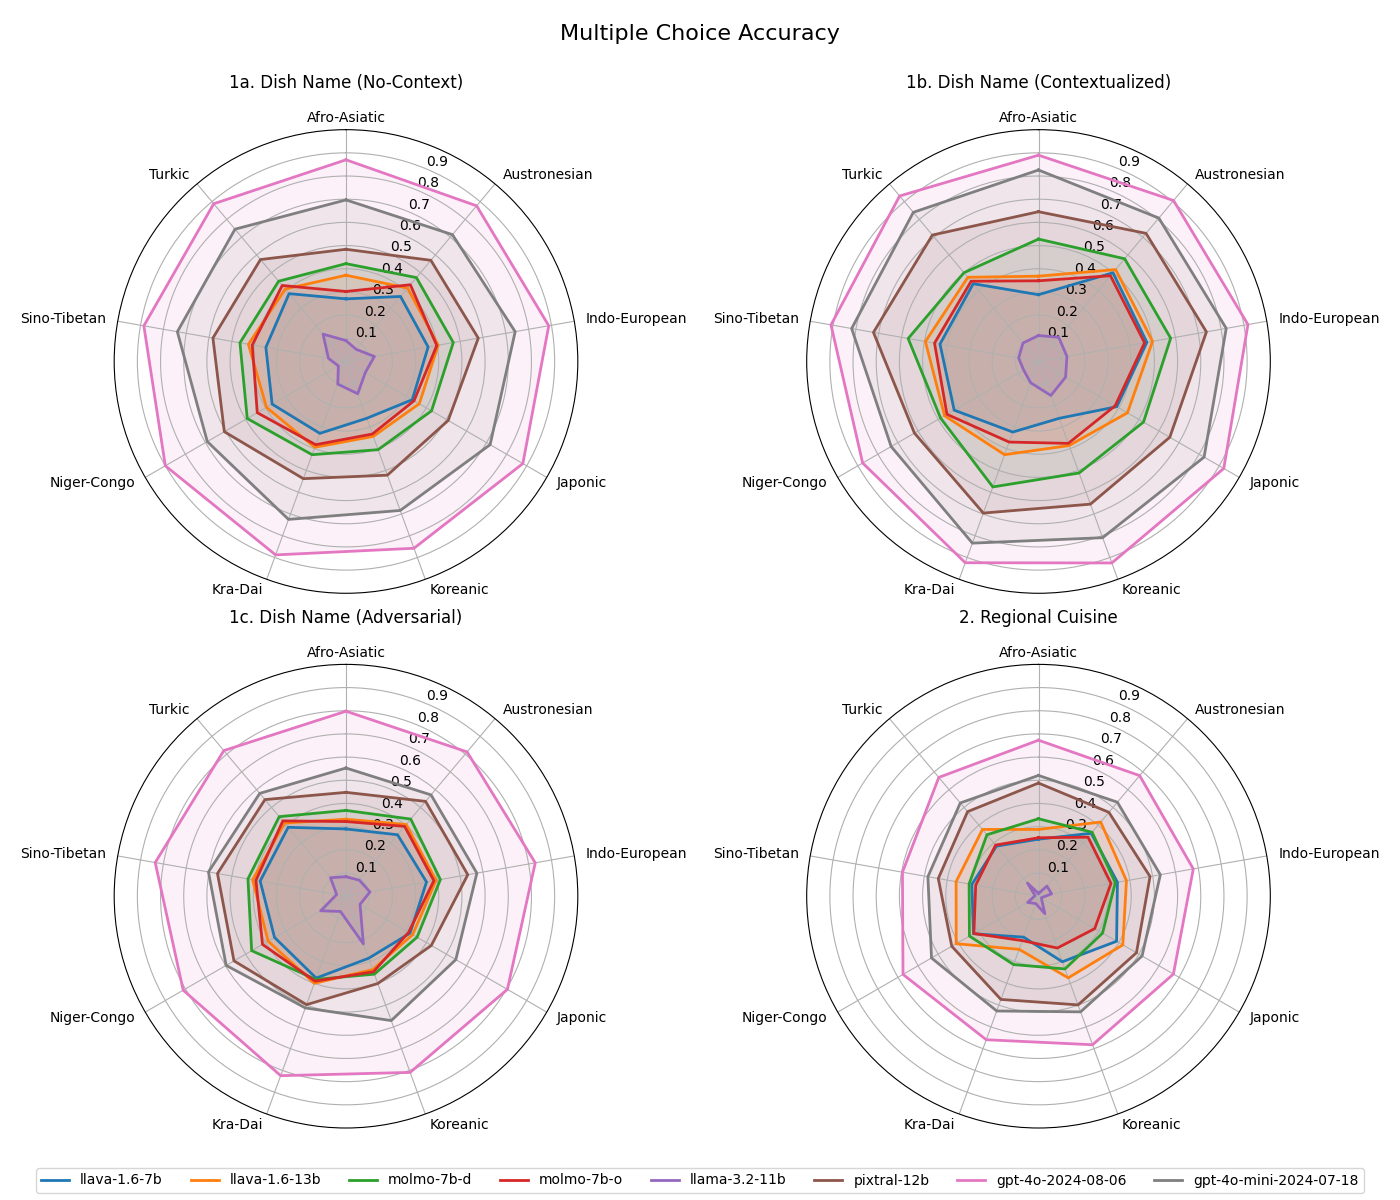
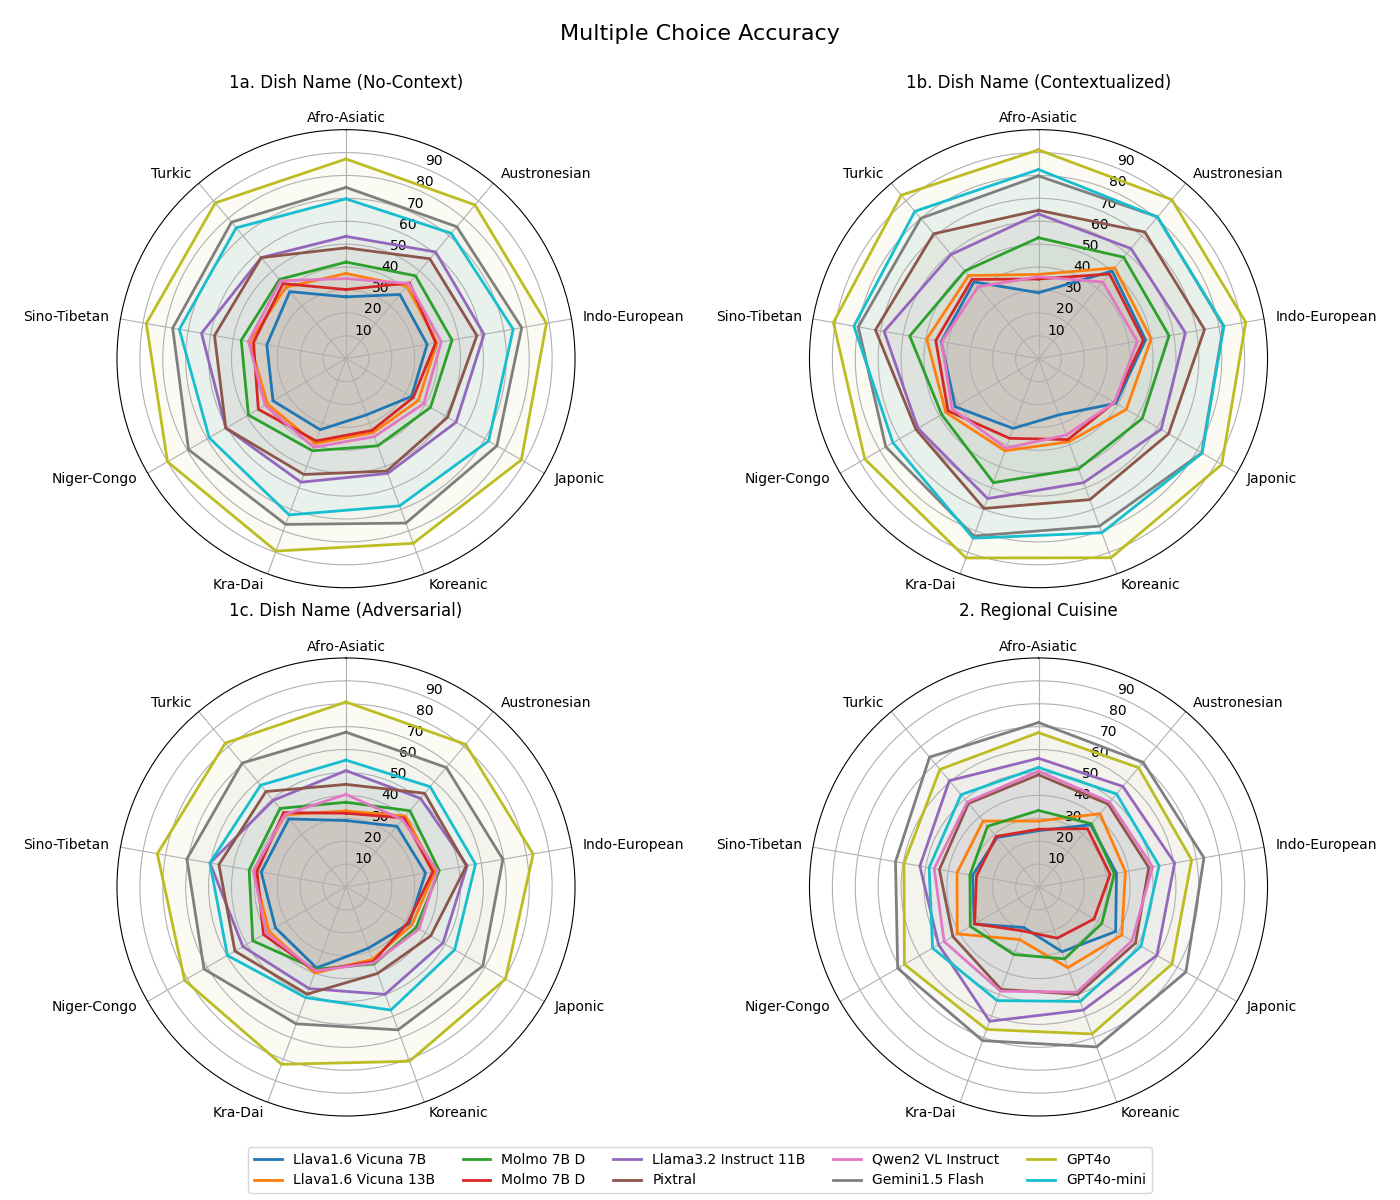
feat: radar viz all case

Changed region(s): [[0.0, 0.1233, 0.9829, 0.9867], [0.86, 0.9558, 0.9521, 0.9867], [0.0307, 0.9558, 0.1229, 0.9867]]

diff --git a/evaluation/score/plot/visualization.py b/evaluation/score/plot/visualization.py
@@ -10,6 +10,11 @@ with open('./plot_mapper.yml', 'r') as file:
 LANG_FAMILY_DICT = plot_mapper['lang_family_dict']
 LANG_RESOURCE_DICT = plot_mapper['lang_resource_dict']
 CATEGORIES = plot_mapper['categories']
+MODEL_NAME_DICT = plot_mapper['model_name_dict']
+
+ACCURACY_MC_PATH = "../json/{model}_accuracy_mc.json"
+ACCURACY_OE_PATH = "../json/{model}_accuracy_oe.json"
+BERTSCORE_OE_PATH = "../json/{model}_bertscore_oe.json"
 
 def load_json(file_path):
     with open(file_path, 'r') as file:
@@ -18,23 +23,30 @@ def load_json(file_path):
 def generate_accuracy_dict(task, vis_type):
     with open('../score.yml', 'r') as file:
         models = yaml.safe_load(file)
+    models = models['models']
     
     model_dict = {}
     if vis_type == 'lang':
         if task == 'mc':
             model_dict = {
-                model: load_json(f'../json/accuracy_mc_{model}.json') for _, model in models.items()
+                model: load_json(ACCURACY_MC_PATH.format(model=model)) for model in models
+            }
+        elif task == 'oe':
+            model_dict = {
+                model: load_json(ACCURACY_OE_PATH.format(model=model)) for model in models
             }
         else:
             model_dict = {
-                model: load_json(f'../json/accuracy_oe_{model}.json') for _, model in models.items()
+                model: load_json(BERTSCORE_OE_PATH.format(model=model)) for model in models
             }
     else:
-        for _, model in models.items():
+        for model in models:
             if task == 'mc':
-                model_result = load_json(f'../json/accuracy_mc_{model}.json')
+                model_result = load_json(ACCURACY_MC_PATH.format(model=model))
+            elif task == 'oe':
+                model_result = load_json(ACCURACY_OE_PATH.format(model=model))
             else:
-                model_result = load_json(f'../json/accuracy_oe_{model}.json')
+                model_result = load_json(BERTSCORE_OE_PATH.format(model=model))
             for category in CATEGORIES:
                 category_totals = defaultdict(list)
                 for lang_code, score in model_result[category].items():
@@ -51,7 +63,7 @@ def generate_accuracy_dict(task, vis_type):
     
     return model_dict
 
-def plot_radar(models, data, title, ax, vis_type):
+def plot_radar(models, data, title, ax, task, vis_type):
     languages = [key for key in data[models[0]].keys() if key != 'avg_score']
     N = len(languages)
 
@@ -67,18 +79,27 @@ def plot_radar(models, data, title, ax, vis_type):
         values = [data[model][lang] for lang in languages]
         values += values[:1]
         handle, = ax.plot(angles, values, linewidth=2, linestyle='solid', label=model)
-        ax.fill(angles, values, alpha=0.1)
+        ax.fill(angles, values, alpha=0.05)
         handles.append(handle)
         labels.append(model)
 
-    ax.set_ylim(0, 1)
     if vis_type == 'lang':
         ax.set_title(title, size=12, pad=40)
     else:
         ax.set_title(title, size=12, pad=30)
 
-    ax.set_yticks([0.1, 0.2, 0.3, 0.4, 0.5, 0.6, 0.7, 0.8, 0.9])  # Custom radial ticks
-    ax.set_yticklabels(['0.1', '0.2', '0.3', '0.4', '0.5', '0.6', '0.7', '0.8', '0.9'])  # Custom tick labels
+    if task == 'mc':
+        ax.set_ylim(0, 100)
+        ax.set_yticks([10, 20, 30, 40, 50, 60, 70, 80, 90])
+        ax.set_yticklabels(['10', '20', '30', '40', '50', '60', '70', '80', '90'])
+    elif task == 'oe':
+        ax.set_ylim(0, 50)
+        ax.set_yticks([5, 10, 15, 20, 25, 30, 35, 40, 45]) 
+        ax.set_yticklabels(['5', '10', '15', '20', '25', '30', '35', '40', '45']) 
+    else:
+        ax.set_ylim(0, 100)
+        ax.set_yticks([10, 20, 30, 40, 50, 60, 70, 80, 90])
+        ax.set_yticklabels(['10', '20', '30', '40', '50', '60', '70', '80', '90'])
 
     ticks = angles[:-1]
     ax.set_xticks(ticks)
@@ -93,29 +114,30 @@ def plot_radar(models, data, title, ax, vis_type):
             rotation = base_rotation + i * rotation_increment
             if rotation < -90:
                 rotation += 180
-            ax.text(tick, ax.get_rmax() + 0.06 + (len(label)-2)*0.015, label, rotation=rotation, size=10, ha='center', va='center')
+            ax.text(tick, ax.get_rmax()*(1.06 + (len(label)-2)*0.02), label, rotation=rotation, size=10, ha='center', va='center')
     elif vis_type == 'res':
         for i, (tick, label) in enumerate(zip(ticks, languages)):
             if i == 0 or i==3:
-                ax.text(tick, ax.get_rmax() + 0.05, label, size=10, ha='center', va='center')
+                ax.text(tick, ax.get_rmax()*1.05, label, size=10, ha='center', va='center')
             if i == 1 or i==2:
-                ax.text(tick, ax.get_rmax() + 0.05, label, size=10, ha='left', va='center')
+                ax.text(tick, ax.get_rmax()*1.05, label, size=10, ha='left', va='center')
             if i == 4 or i==5:
-                ax.text(tick, ax.get_rmax() + 0.05, label, size=10, ha='right', va='center')
+                ax.text(tick, ax.get_rmax()*1.05, label, size=10, ha='right', va='center')
     else:
         for i, (tick, label) in enumerate(zip(ticks, languages)):
             if i == 0:
-                ax.text(tick, ax.get_rmax() + 0.05, label, size=10, ha='center', va='center')
+                ax.text(tick, ax.get_rmax()*1.05, label, size=10, ha='center', va='center')
             if i in [1,2,3,4]:
-                ax.text(tick, ax.get_rmax() + 0.05, label, size=10, ha='left', va='center')
+                ax.text(tick, ax.get_rmax()*1.05, label, size=10, ha='left', va='center')
             if i in [5,6,7,8]:
-                ax.text(tick, ax.get_rmax() + 0.05, label, size=10, ha='right', va='center')
+                ax.text(tick, ax.get_rmax()*1.05, label, size=10, ha='right', va='center')
 
     return handles, labels
 
 def save_radar(task, vis_type):
     with open('../score.yml', 'r') as file:
         models = yaml.safe_load(file)
+    models = models['models']
     model_dict = generate_accuracy_dict(task, vis_type)
 
     # Create subplots for the 4 radar charts
@@ -131,20 +153,21 @@ def save_radar(task, vis_type):
     # Plot radar charts for each category
     for i, category in enumerate(CATEGORIES):
         row, col = divmod(i, 2)
-        models = list(model_dict.keys())
         category_data = {model: model_dict[model][category] for model in models}
-        handles, labels = plot_radar(models, category_data, category, axs[row, col], vis_type)
+        handles, labels = plot_radar(models, category_data, category, axs[row, col], task, vis_type)
         handles_list = handles
         labels_list = labels
 
     if task == 'mc':
         fig.suptitle('Multiple Choice Accuracy', fontsize=16)
-    else:
+    elif task == 'oe':
         fig.suptitle('Open Ended Accuracy', fontsize=16)
+    else:
+        fig.suptitle('Open Ended BERT Score', fontsize=16)
 
-    fig.legend(handles_list, labels_list, loc='lower center', ncol=len(models))
+    fig.legend(handles_list, list(map(MODEL_NAME_DICT.get, labels_list)), loc='lower center', ncol=len(models)//2)
     plt.tight_layout(rect=[0, 0, 1, 0.98])
-    plt.subplots_adjust(bottom=0.06)
+    plt.subplots_adjust(bottom=0.07)
     plt.savefig(f'radar_{task}_{vis_type}')
 
 if __name__ == "__main__":
@@ -152,4 +175,10 @@ if __name__ == "__main__":
     save_radar('mc', 'res')
     save_radar('mc', 'fam')
 
-    #TODO: ADD RADAR FOR OPEN ENDED
+    save_radar('oe', 'lang')
+    save_radar('oe', 'res')
+    save_radar('oe', 'fam')
+
+    save_radar('bs', 'lang')
+    save_radar('bs', 'res')
+    save_radar('bs', 'fam')
